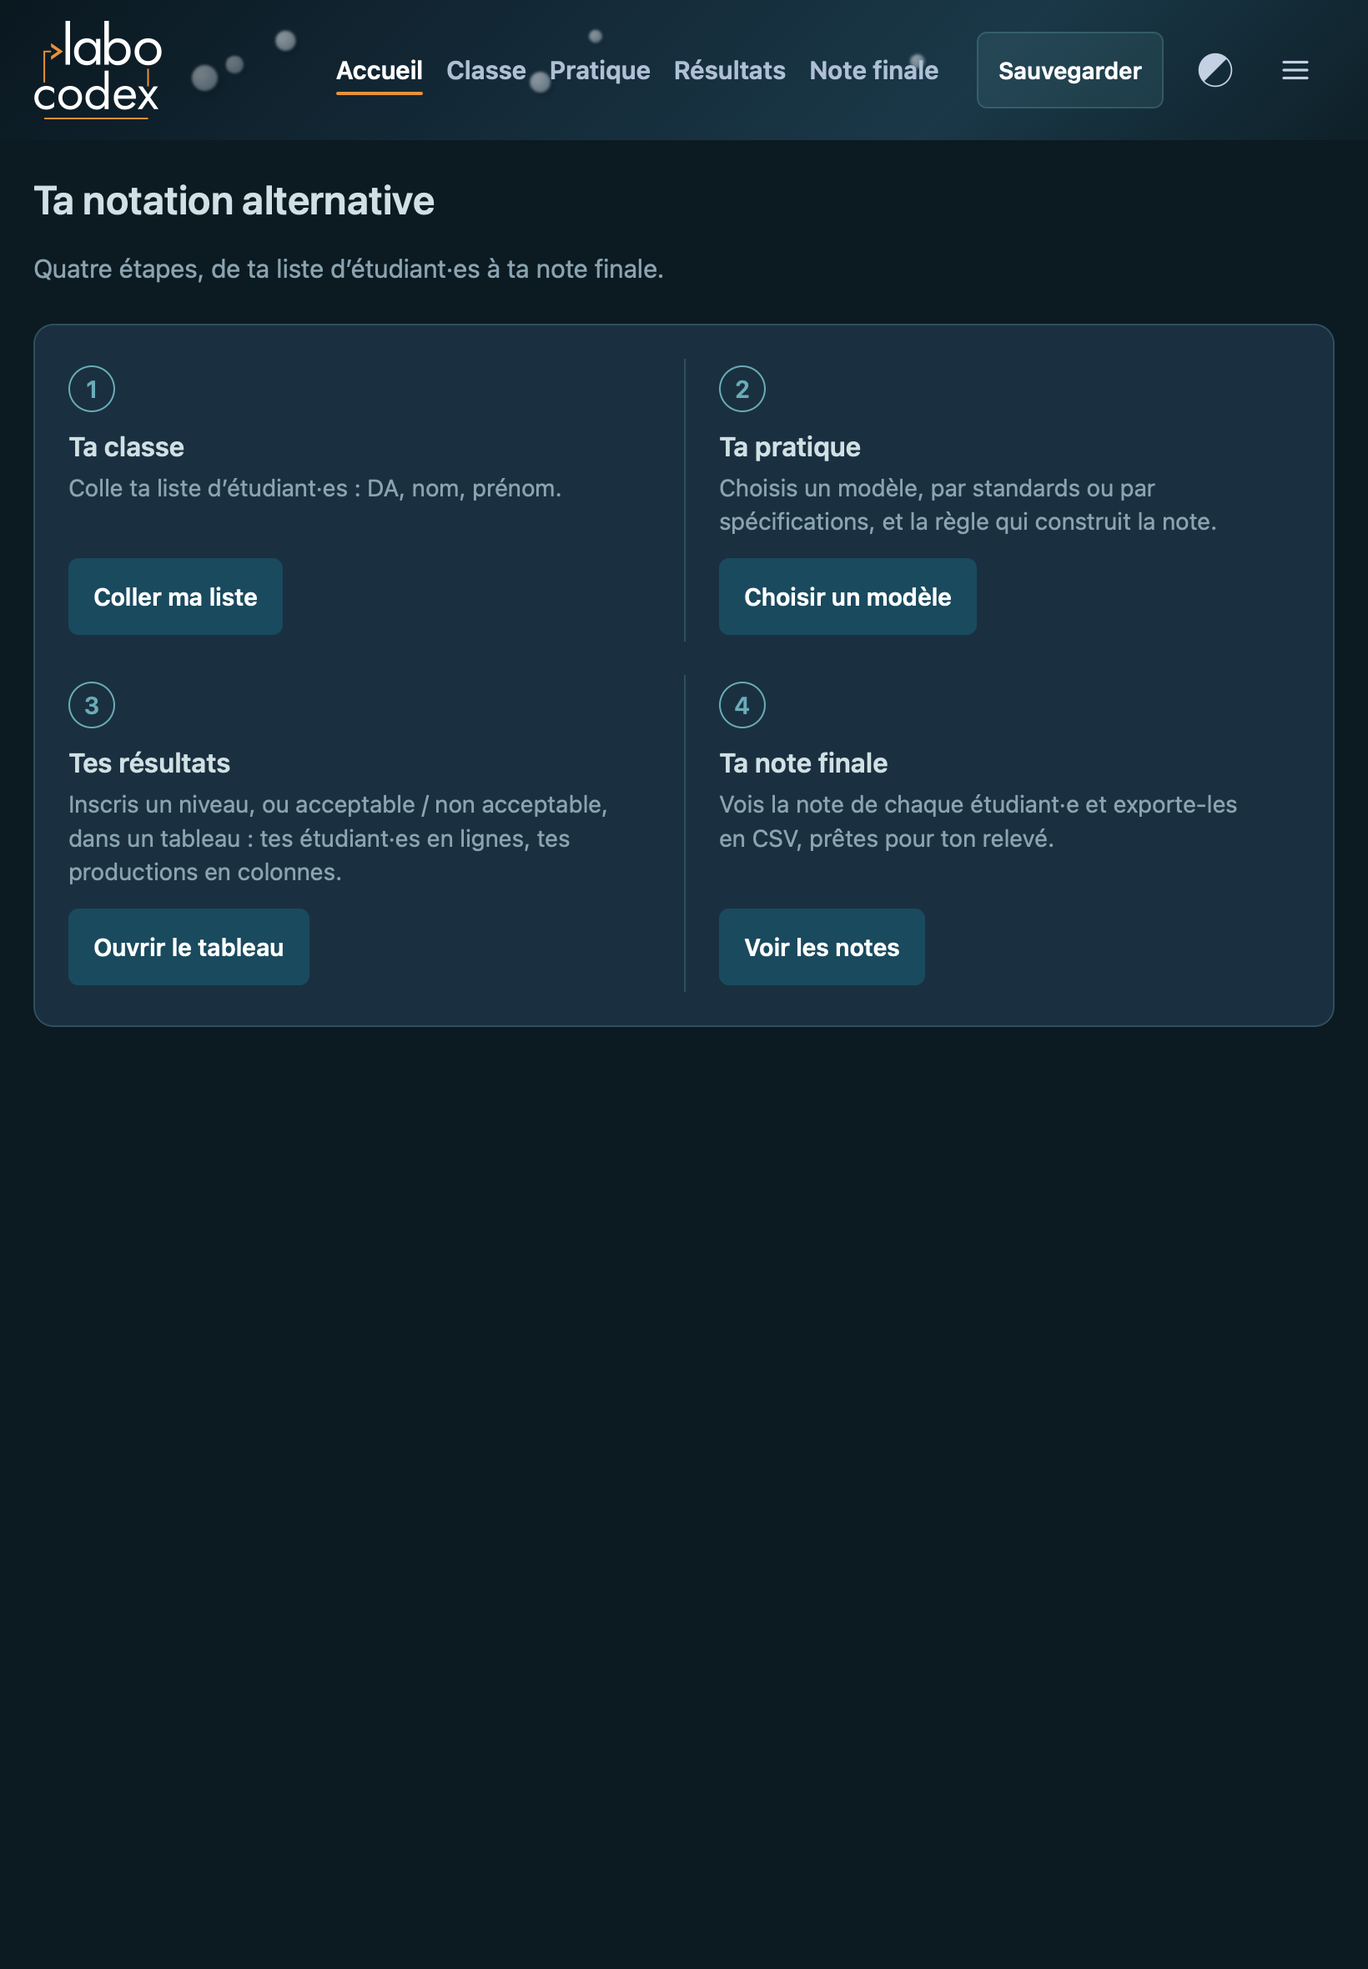
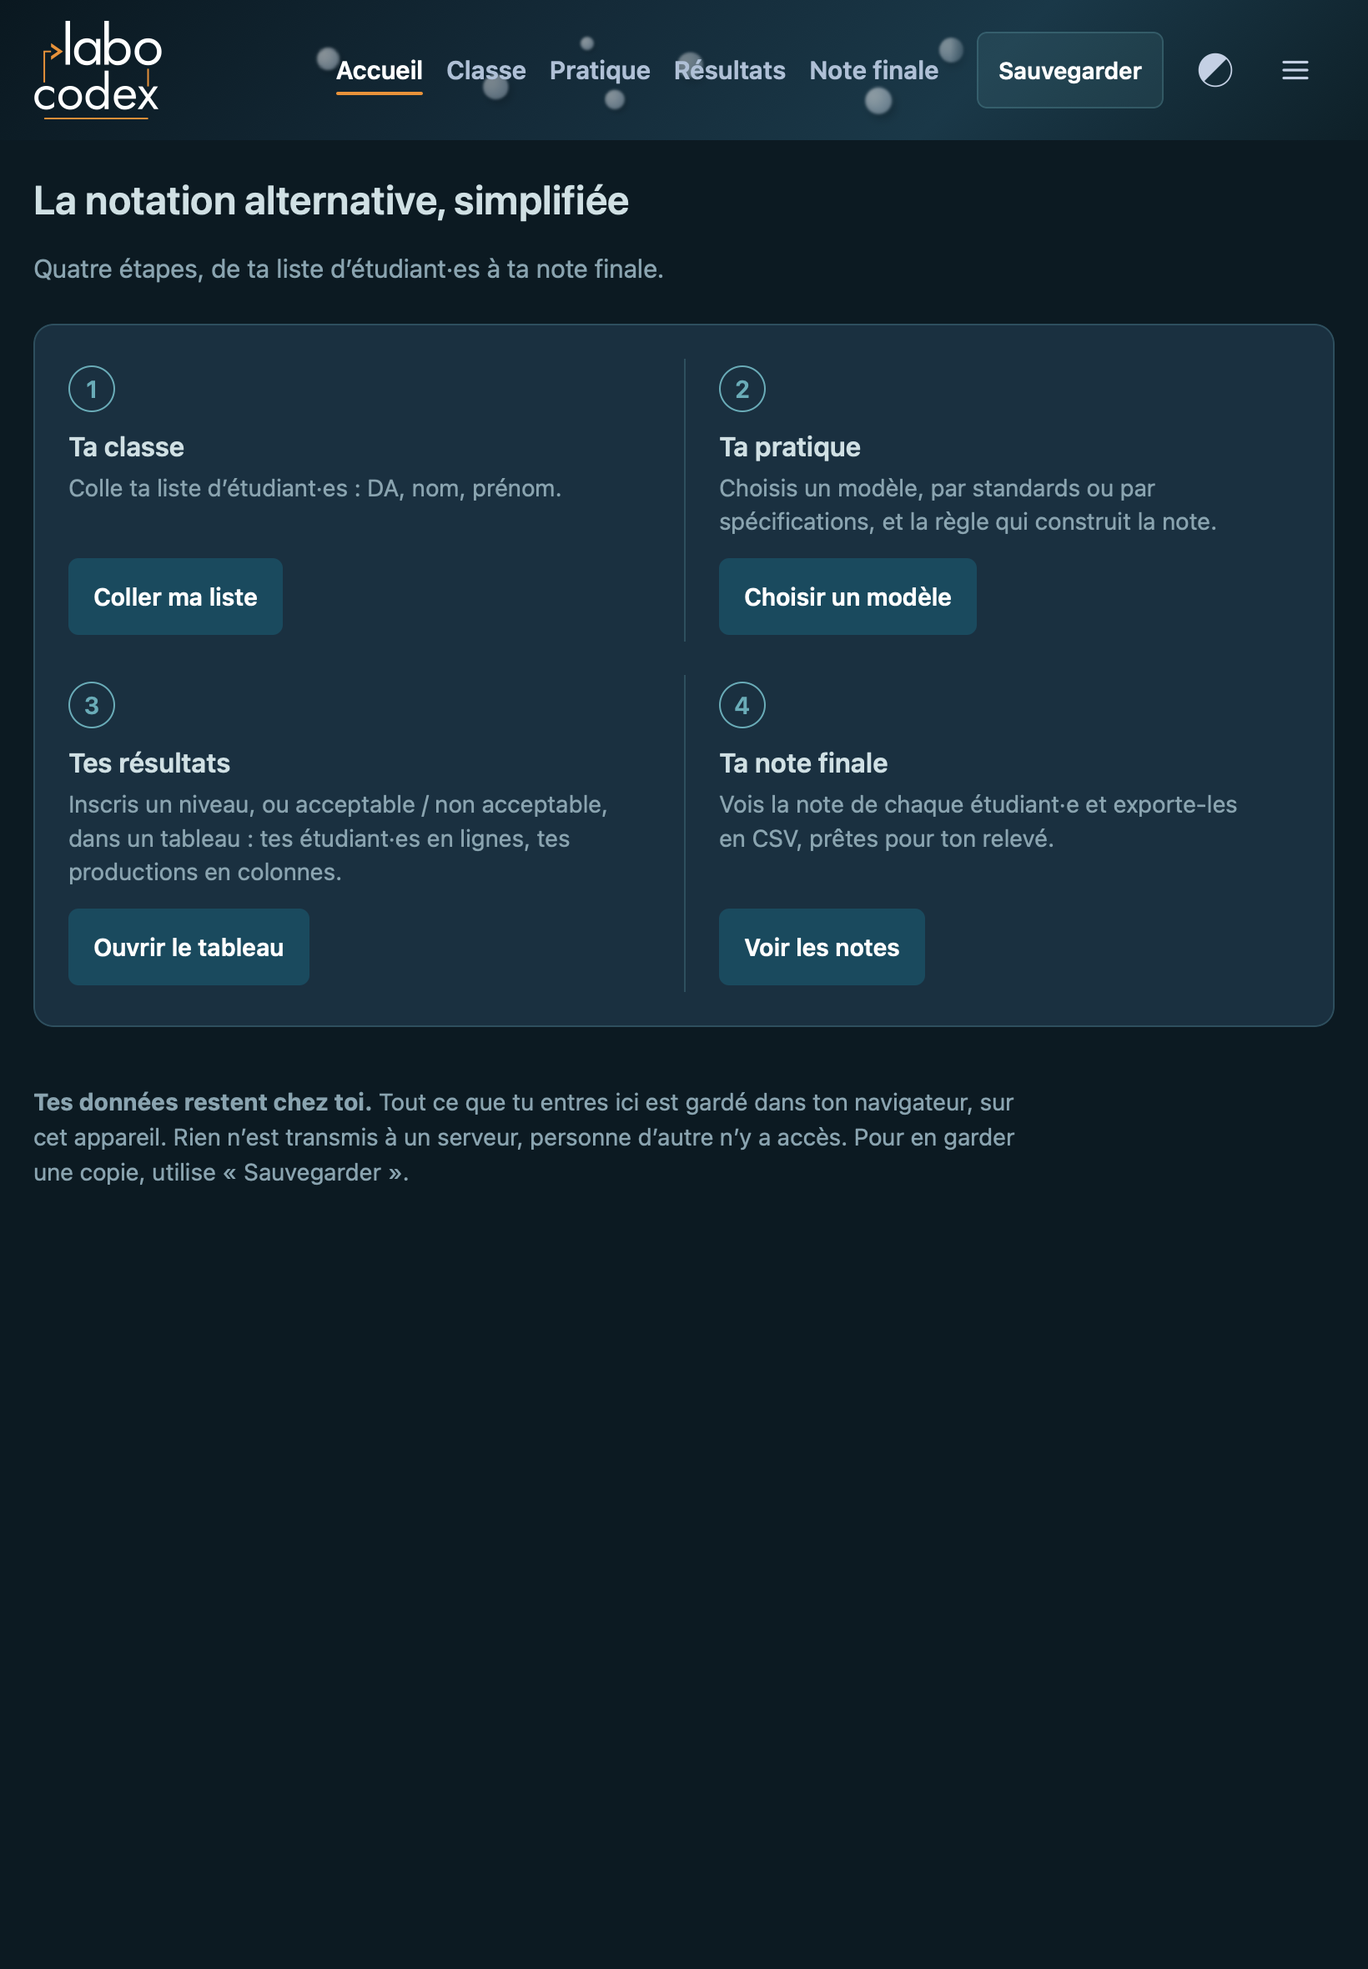
feat(vue-simple) : l'accueil — le titre « La notation alternative, simplifiée » et, sous les quatre cartes, la note de confidentialité, mots validés par Grégoire (13 h 39, 13 h 53) ; « Sauvegarder » est le mot du bouton, interpolé. Vérifié avant de l'écrire : aucun appel réseau n'emporte une donnée 

diff --git a/tests/integration/vue-simple.spec.js b/tests/integration/vue-simple.spec.js
@@ -196,7 +196,7 @@ test.describe('Vue simple · le parcours d\'un nouvel arrivant', () => {
         // 1. Application vide : vue simple, accueil à quatre cartes.
         await expect(page.locator('body')).toHaveClass(/vue-simple/);
         await expect(page.locator('#section-simple-accueil')).toBeVisible();
-        await expect(ecran(page, 'accueil').locator('.vs-titre')).toHaveText('Ta notation alternative');
+        await expect(ecran(page, 'accueil').locator('.vs-titre')).toHaveText('La notation alternative, simplifiée');   // Grégoire, 10 nov., 13 h 39
         await expect(ecran(page, 'accueil').locator('.vs-etape')).toHaveCount(4);
         await expect(page.locator('.navigation-vue-simple button')).toHaveText(['Accueil', 'Classe', 'Pratique', 'Résultats', 'Note finale']);
         await expect(page.locator('.navigation-principale:not(.navigation-vue-simple)')).toBeHidden();
@@ -463,6 +463,55 @@ async function nouveauGroupe(page, nomCours, liste) {
     // Le geste écrit en plusieurs temps (cours, groupe, étudiant·es) : rien ne se lit en base avant son message.
     await expect(ecran(page, 'classe').locator('.vs-succes')).toBeVisible();
 }
+
+const NOTE_CONFIDENTIALITE = 'Tes données restent chez toi. Tout ce que tu entres ici est gardé dans ton navigateur, sur cet appareil. Rien n’est transmis à un serveur, personne d’autre n’y a accès. Pour en garder une copie, utilise « Sauvegarder ».';
+
+test.describe('Vue simple · l\'accueil : le titre et la note de confidentialité (Grégoire, 10 nov. 2026)', () => {
+    test('le titre et la note sont à l\'accueil de la vue simple, absents de la vue étendue ; « Sauvegarder » est le mot du bouton', async ({ page }) => {
+        const erreurs = await ouvrir(page);
+        const accueil = ecran(page, 'accueil');
+        await expect(accueil.locator('.vs-titre')).toHaveText('La notation alternative, simplifiée');
+        await expect(accueil.locator('.vs-intro')).toHaveText('Quatre étapes, de ta liste d’étudiant·es à ta note finale.');
+        const note = accueil.locator('.vs-confidentialite');
+        await expect(note).toHaveText(NOTE_CONFIDENTIALITE);
+        await expect(note.locator('strong')).toHaveText('Tes données restent chez toi.');
+        await expect(page.locator('#btn-codex')).toContainText('Sauvegarder');
+        // Sous les quatre cartes, pas au-dessus.
+        const ordre = await page.evaluate(() => {
+            const n = document.querySelector('#simple-accueil-contenu .vs-confidentialite');
+            const cartes = document.querySelector('#simple-accueil-contenu .vs-etapes');
+            return !!(cartes.compareDocumentPosition(n) & Node.DOCUMENT_POSITION_FOLLOWING);
+        });
+        expect(ordre).toBe(true);
+        await basculer(page, 'etendue');
+        const visibles = await page.evaluate(() => {
+            const vus = (texte) => [...document.querySelectorAll('body *')].filter((n) => n.children.length === 0 && n.checkVisibility && n.checkVisibility() && (n.textContent || '').includes(texte)).length;
+            return { titre: vus('La notation alternative, simplifiée'), note: vus('Tes données restent chez toi.') };
+        });
+        expect(visibles).toEqual({ titre: 0, note: 0 });
+        expect(erreurs).toEqual([]);
+    });
+
+    for (const [largeur, hauteur] of [[820, 1180], [390, 844]]) {
+        test(`à ${largeur} px, la note ne pousse pas les cartes hors de l'écran et ne déborde pas`, async ({ page }) => {
+            await page.setViewportSize({ width: largeur, height: hauteur });
+            const erreurs = await ouvrir(page);
+            await auRepos(page);
+            const m = await page.evaluate(() => {
+                const r = (sel) => document.querySelector(sel).getBoundingClientRect();
+                const premiere = r('#simple-accueil-contenu .vs-etape');
+                const note = r('#simple-accueil-contenu .vs-confidentialite');
+                return { premiereEnHaut: premiere.top, hauteur: innerHeight, noteGauche: note.left, noteDroite: note.right, largeur: document.documentElement.clientWidth,
+                    defilementHorizontal: document.documentElement.scrollWidth > document.documentElement.clientWidth };
+            });
+            expect(m.premiereEnHaut).toBeLessThan(m.hauteur);   // la première carte reste dans le premier écran
+            expect(m.noteGauche).toBeGreaterThanOrEqual(0);
+            expect(m.noteDroite).toBeLessThanOrEqual(m.largeur);
+            expect(m.defilementHorizontal).toBe(false);
+            expect(erreurs).toEqual([]);
+        });
+    }
+});
 
 test.describe('Vue simple · plusieurs groupes', () => {
     test('deux groupes créés en vue simple gardent chacun leurs étudiant·es ; le sélecteur paraît à deux, sur Classe, Résultats et Note finale', async ({ page }) => {

diff --git a/index.html b/index.html
@@ -11827,7 +11827,7 @@
          Un seul moteur pour hover, flèches didactiques, popups aide contextuelle,
          visite guidée et glossaire. API publique : window.accompagnement. -->
     <link rel="stylesheet" href="css/accompagnement.css?v=20261109h"> <!-- Parcours 6, corrections (9 nov.) : l’aide d’un « i » passe au-dessus de la fenêtre qui le porte (l’aperçu du codex) · La palette Évaluation compacte (1er nov.) · #1152, lot 3 (28 oct.) : le micro-popup d’un terme souligné passe au-dessus de l’aide contextuelle -->
-    <link rel="stylesheet" href="css/vue-simple.css?v=20261109r"> <!-- Vue simple (9 nov. 2026) -->
+    <link rel="stylesheet" href="css/vue-simple.css?v=20261109s"> <!-- Vue simple (9 nov. 2026) -->
     <link rel="stylesheet" href="css/tableau-notation.css?v=20261109d"> <!-- Tableau de notation, lot 1 (9 nov. 2026) -->
     <script src="js/accompagnement.js?v=20261109j"></script> <!-- Groupe 2 (9 nov.) : « un parcours joue » lu sur ParcoursMoteur.actif(), comme le rappel du codex · Parcours 6, corrections (9 nov.) : l’aide d’un « i » passe au-dessus de la fenêtre qui le porte · La palette Évaluation compacte (1er nov.) · #1152, lot 5 (29 oct.) : le trait d’union n’est plus échappé (regex sous u) · #1152, lot 5 (29 oct.) : le soulignement du glossaire aux mots entiers · #1152, lot 3 (28 oct.) : « En savoir plus » ouvre Aide › Référence sur la fiche du terme · L’aide d’« Apporter mon matériel » (19 oct.) : l’étape « Conception » de la visite correspond aussi à l’onglet (#1092) · Relecture de Cowork du 17 oct. (C3) : une icône « i » qui désigne une clé du catalogue ouvre son aide · #305 (2 juil.) : popup Conseil — nom accessible + focus -->
     <!-- Catalogues de contenu (hover, popup, terme). DOIVENT charger après accompagnement.js :
@@ -11856,7 +11856,7 @@
     <!-- PRIORITÉ 8: Initialisation finale (TOUJOURS EN DERNIER) -->
     <script src="js/main.js?v=20261109d"></script> <!-- Le nouvel en-tête (7 nov.) : bulles sur les deux bandes · Un commentaire : « les trois portes de l’accueil » (29 oct.) · #374-bis : re-scan de la fusion à db-ready (congés IDB-only, 6 août) -->
     <script src="js/chrome-unifie.js?v=20261107e"></script> <!-- Chrome unifié (23 mai 2026) : selects mobile nav/sous-nav · popover ⋯ retiré (nouvel en-tête, 7 nov.) -->
-    <script src="js/vue-simple.js?v=20261109r"></script> <!-- Vue simple (9 nov. 2026) : l'écran ; après main.js, qui câble la navigation -->
+    <script src="js/vue-simple.js?v=20261109s"></script> <!-- Vue simple (9 nov. 2026) : l'écran ; après main.js, qui câble la navigation -->
 
     <!-- PRIORITÉ 9: Scripts inline externalisés (Phase 6 CSP) -->
     <script src="js/init-inline.js?v=20261109d"></script> <!-- #1152, lot 1 (24 oct.) : la recherche de l’Aide retombe sur « Commencer » ; la paire aide-apropos-* retirée · Beta 99.48 b0518-0540 : refactor profil-etudiant sessions A+B+C+D LIVRÉES (7 sous-modules autonomes : helpers + calculs + rapport + diagnostics + confidentiel + actions + sections-affichage ; 102 fonctions extraites ; profil-etudiant.js renommé en sections-affichage.js + afficherProfilComplet cyc 58 éclaté en 5 helpers privés — étape 4 partielle, 5 fonctions cyc > 30 héritages documentées) -->

diff --git a/js/vue-simple.js b/js/vue-simple.js
@@ -25,13 +25,19 @@
 
     const MOTS = Object.freeze({
         // ARRÊTÉ par Grégoire, mot pour mot (9 nov. 2026)
-        titreAccueil: 'Ta notation alternative',
+        // VALIDÉ par Grégoire (10 nov. 2026, 13 h 39), à la place de « Ta notation alternative ».
+        titreAccueil: 'La notation alternative, simplifiée',
         boutonSauvegarder: 'Sauvegarder',
         phraseSauvegarder: 'Tes données restent dans ce navigateur. Enregistre-les dans un fichier, ton codex, pour ne pas les perdre et pour les rouvrir ailleurs.',
         vueSimple: 'Vue simple',
         vueEtendue: 'Vue étendue',
         // ARRÊTÉ par Grégoire (9 nov. 2026, 19 h 35) : « étudiant·e », « étudiant·es » partout en vue simple, jamais « élève » ;
         // le texte de la carte 4, mot pour mot.
+        // VALIDÉE par Grégoire (10 nov. 2026, 13 h 53), sous les quatre cartes. « Sauvegarder » est le mot du bouton
+        // (`boutonSauvegarder`), interpolé pour ne jamais en diverger. Vérifié avant de l'écrire : rien de ce qui est saisi ne
+        // part vers un serveur (rapport de la vue simple, 10 nov., 14 h 40).
+        confidentialiteTete: 'Tes données restent chez toi.',
+        confidentialite: (sauvegarder) => `Tout ce que tu entres ici est gardé dans ton navigateur, sur cet appareil. Rien n’est transmis à un serveur, personne d’autre n’y a accès. Pour en garder une copie, utilise « ${sauvegarder} ».`,
         sousTitreAccueil: 'Quatre étapes, de ta liste d’étudiant·es à ta note finale.',
         cartes: [
             { ecran: 'classe', titre: 'Ta classe', texte: 'Colle ta liste d’étudiant·es : DA, nom, prénom.', lien: 'Coller ma liste' },
@@ -442,7 +448,8 @@
             </li>`).join('');
         _ecrire(hote, `<h2 class="vs-titre">${esc(MOTS.titreAccueil)}</h2>
             <p class="vs-intro">${esc(MOTS.sousTitreAccueil)}</p>
-            <ol class="vs-etapes">${cartes}</ol>`);
+            <ol class="vs-etapes">${cartes}</ol>
+            <p class="vs-note vs-confidentialite"><strong>${esc(MOTS.confidentialiteTete)}</strong> ${esc(MOTS.confidentialite(MOTS.boutonSauvegarder))}</p>`);
     }
 
     /* ============================== CLASSE ============================== */

diff --git a/tests/unit/vue-simple.test.js b/tests/unit/vue-simple.test.js
@@ -582,7 +582,10 @@ describe('E. La vue simple ne nomme rien qui n\'existe pas', () => {
 
     it('les mots arrêtés par Grégoire, mot pour mot', () => {
         const ecran = lire('js/vue-simple.js');
-        expect(ecran).toContain("titreAccueil: 'Ta notation alternative'");
+        // Le titre de l'accueil, changé par Grégoire le 10 nov. 2026 (13 h 39) ; la note de confidentialité (13 h 53).
+        expect(ecran).toContain("titreAccueil: 'La notation alternative, simplifiée'");
+        expect(ecran).toContain("confidentialiteTete: 'Tes données restent chez toi.'");
+        expect(ecran).toContain("confidentialite: (sauvegarder) => `Tout ce que tu entres ici est gardé dans ton navigateur, sur cet appareil. Rien n’est transmis à un serveur, personne d’autre n’y a accès. Pour en garder une copie, utilise « ${sauvegarder} ».`,");
         expect(ecran).toContain("boutonSauvegarder: 'Sauvegarder'");
         expect(ecran).toContain("phraseSauvegarder: 'Tes données restent dans ce navigateur. Enregistre-les dans un fichier, ton codex, pour ne pas les perdre et pour les rouvrir ailleurs.'");
         expect(ecran).toContain("vueSimple: 'Vue simple'");

diff --git a/css/vue-simple.css b/css/vue-simple.css
@@ -198,6 +198,13 @@ body.vue-simple .codex-menu {
     border-radius: var(--radius-grand);
 }
 
+/* La note de confidentialité de l'accueil (10 nov. 2026) : discrète mais lisible, la couleur du texte secondaire
+   (`.vs-note`), jamais celle d'une alerte ; sa largeur de lecture bornée. */
+.vs-confidentialite {
+    margin: var(--espacement-moyen) 0 0;
+    max-width: 68ch;
+}
+
 .vs-etapes--deux {
     grid-template-columns: repeat(2, minmax(0, 1fr));
 }

diff --git a/plans de travail/RAPPORT-2026-11-09-vue-simple.md b/plans de travail/RAPPORT-2026-11-09-vue-simple.md
@@ -6,6 +6,49 @@ Consigne de Cowork du 9 nov. 2026, 17 h 40. Branche `lot/vue-simple`, partie de 
 
 ---
 
+## 10 NOV., 14 H 50 — L'ACCUEIL : LE TITRE ET LA NOTE DE CONFIDENTIALITÉ (sur `main` local, rien de poussé)
+
+**Idées reçues de Grégoire directement depuis 13 h 51 : aucune.** Tout ce qui suit vient du relais de Cowork de 14 h 05.
+
+### Ce qui change à l'écran
+
+1. **Le titre de l'accueil** devient « La notation alternative, simplifiée » (mot validé). L'accueil avait déjà un titre distinct de la ligne, « Ta notation alternative » : il est remplacé à sa place. La ligne « Quatre étapes… » reste dessous.
+2. **Sous les quatre cartes, la note de confidentialité**, mot pour mot, avec « Tes données restent chez toi. » en gras. Elle prend la couleur du texte secondaire, comme les autres notes de la vue simple (`.vs-note`) : pas d'alerte, pas de couleur d'avertissement. Sa largeur de lecture est bornée à 68 caractères.
+   - **« Sauvegarder » est bien le mot du bouton** (`MOTS.boutonSauvegarder`). Il est interpolé dans la phrase : si le bouton change de nom, la phrase suit.
+
+### La phrase dit vrai : vérifié avant de l'écrire
+
+Commandes : `grep -rnE '\bfetch\(|XMLHttpRequest|sendBeacon|WebSocket|EventSource\(' js` et le relevé des URL de `js/` et d'`index.html`.
+
+- **Deux appels réseau seulement, et aucun n'emporte une donnée saisie.**
+  - `version.json` (`init-inline.js:488`, `rechargement-sur.js:40`) : une lecture sur la même origine, sans rien envoyer.
+  - Le worker de PDF.js (`travaux-visionneuse.js:118`, `libs/pdf.worker.min.js`) : un fichier de l'application.
+- Aucun `XMLHttpRequest`, `sendBeacon`, `WebSocket` ni `EventSource`.
+- Le partage et la licence ne font aucun appel. Les URL externes sont des liens que l'utilisateur clique lui-même (blog, soutien, AQPC, licence).
+- **La CSP** (`index.html:10`, `default-src 'self'`, sans `connect-src`) interdit à la page toute connexion vers une autre origine.
+- **Nuance, sans conséquence sur la phrase** : en ligne, la page elle-même et `version.json` viennent du serveur de l'application. Rien de ce que l'utilisateur entre n'y part.
+
+### La preuve
+
+- **WebKit**, « l'accueil : le titre et la note de confidentialité », trois essais :
+  1. titre, ligne et note à l'accueil de la vue simple, la note sous les cartes, le mot du bouton ; ni le titre ni la note ne se voient en vue étendue ;
+  2. à 820 px, la première carte reste dans le premier écran, la note ne déborde pas, aucun défilement horizontal ;
+  3. la même chose à 390 px (téléphone).
+- **Break-tests**, rouges à chaque fois :
+  - note retirée : 3 rouges ;
+  - note qui fuit dans l'en-tête de la vue étendue : 1 rouge ;
+  - note plus large que l'écran : 2 rouges.
+- **Fichier entier : 45/45 sous WebKit. Vitest complet : 11 354/11 354.**
+- **Les mots validés sont figés** dans le banc Vitest des mots arrêtés. L'ancien titre y était figé, ainsi que dans l'essai du parcours d'un nouvel arrivant : les deux suivent le mot décidé par Grégoire. Ce n'est pas un banc ajusté pour repasser au vert.
+- **Captures** : l'accueil vide (01) et l'accueil avec la classe (16), à 1180 et 820 px, clair et sombre. Elles sont en page entière cette fois, pour montrer la note : 8 images.
+
+### Supposé
+
+- L'apostrophe typographique (’) dans la note, comme partout dans les mots de la vue simple. Les mots eux-mêmes sont ceux de Grégoire.
+- « Discrète mais lisible » = le style des notes existantes de la vue simple (texte secondaire, 0,88 rem). Aucune règle de `design-system.html` ne décrit une note de confidentialité ; j'ai repris le composant le plus proche.
+
+---
+
 ## 10 NOV., 14 H 15 — PLUSIEURS GROUPES, RETIRER UN GROUPE VIDE, LA COLONNE DE LA NOTE À 820 PX (sur `main` local, rien de poussé)
 
 Constat vécu par Grégoire (13 h 21) : une fois la classe créée, on ne pouvait ni recommencer ni créer un deuxième groupe. Décision de Grégoire (13 h 26) : deux boutons sur « Ta classe ». Noms inventés partout.

diff --git a/plans de travail/captures-2026-11-10-vue-simple-webkit/LISEZMOI.md b/plans de travail/captures-2026-11-10-vue-simple-webkit/LISEZMOI.md
@@ -25,3 +25,6 @@ Prises sous WebKit (Playwright, Mac) sur `main` local après la fusion de `lot/v
 **Reprises le 10 nov. 2026 vers 14 h** (lot « plusieurs groupes ») : les 16 écrans refaits, trois ajoutés (76 images).
 Les écrans 05 (deux boutons neufs) et 12, 14 (la colonne « Note provisoire ») sont ceux qui changent. À 820 px, la note
 est bornée à 9,5 rem en vue simple : quatre productions se voient (deux avant), la cinquième sous le bord estompé.
+
+**Reprises le 10 nov. 2026 vers 14 h 45** (titre et note de confidentialité de l'accueil) : les écrans 01 et 16 seuls,
+en page entière cette fois pour montrer la note sous les cartes (8 images). Les autres écrans ne changent pas.
